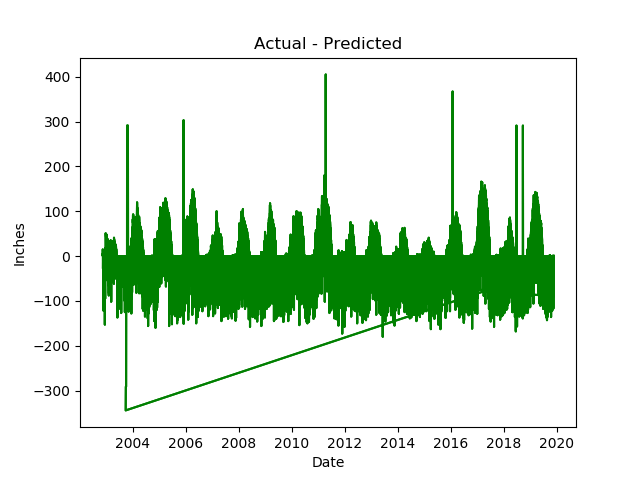
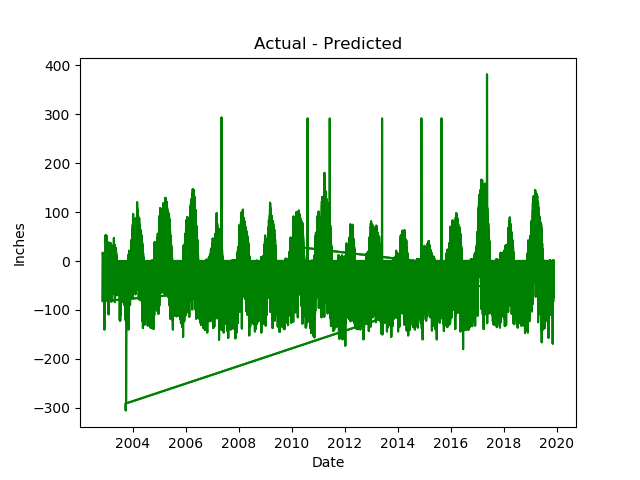
updates, pca is broken for ols

diff --git a/datasetbuilder.py b/datasetbuilder.py
@@ -106,16 +106,20 @@ class DataSet_Builder():
     def use_pca(self):
         # change df, xcols, and ycols appropriately
         old_df = self.df[self.xcols]
+        # print(old_df)
         columns_to_center = old_df.columns.difference(['day_of_year_sin', 'day_of_year_cos'])
         centered_data = stats.zscore(old_df[columns_to_center])
         centered_data = pd.DataFrame(data = centered_data, columns=columns_to_center)
-        new_df = pd.concat([centered_data, old_df[['day_of_year_sin', 'day_of_year_cos']]], axis=1)
+        unchanged = ['day_of_year_sin', 'day_of_year_cos']
+        new_df = pd.concat([centered_data, old_df.loc[:,unchanged]], axis=1)
+        # print(new_df)
         #means = old_df.mean(axis=0)
         # print(self.df[self.xcols])
         # for col in old_df:
 
         principalComponents = self.pca.fit_transform(new_df) # #drop(['Date'], axis=1)
         principalDf = pd.DataFrame(data = principalComponents)
+        print(principalDf)
         # self.df = self.df.drop(self.xcols, axis=1)
         self.df = pd.concat([self.df, principalDf], axis=1)
 

diff --git a/OLS.py b/OLS.py
@@ -75,6 +75,9 @@ def run_OLS_predictor(data, x_train, y_train, x_test, y_test, pred_input, filena
     #	If you lack patients, please read the attacted screenshot
     # plt.plot(data['Date'], data["SNWD.I-1 (in) "] ,color='blue')
     # plt.plot(data['Date'], y_pred_whole, color='red')
+    print(data)
+    print(data["Date"])
+    print( data["SNWD.I-1 (in) "])
     plt.plot(data['Date'],  data["SNWD.I-1 (in) "]-y_pred_whole, color='green')
     plt.legend
     plt.title('Actual - Predicted')
